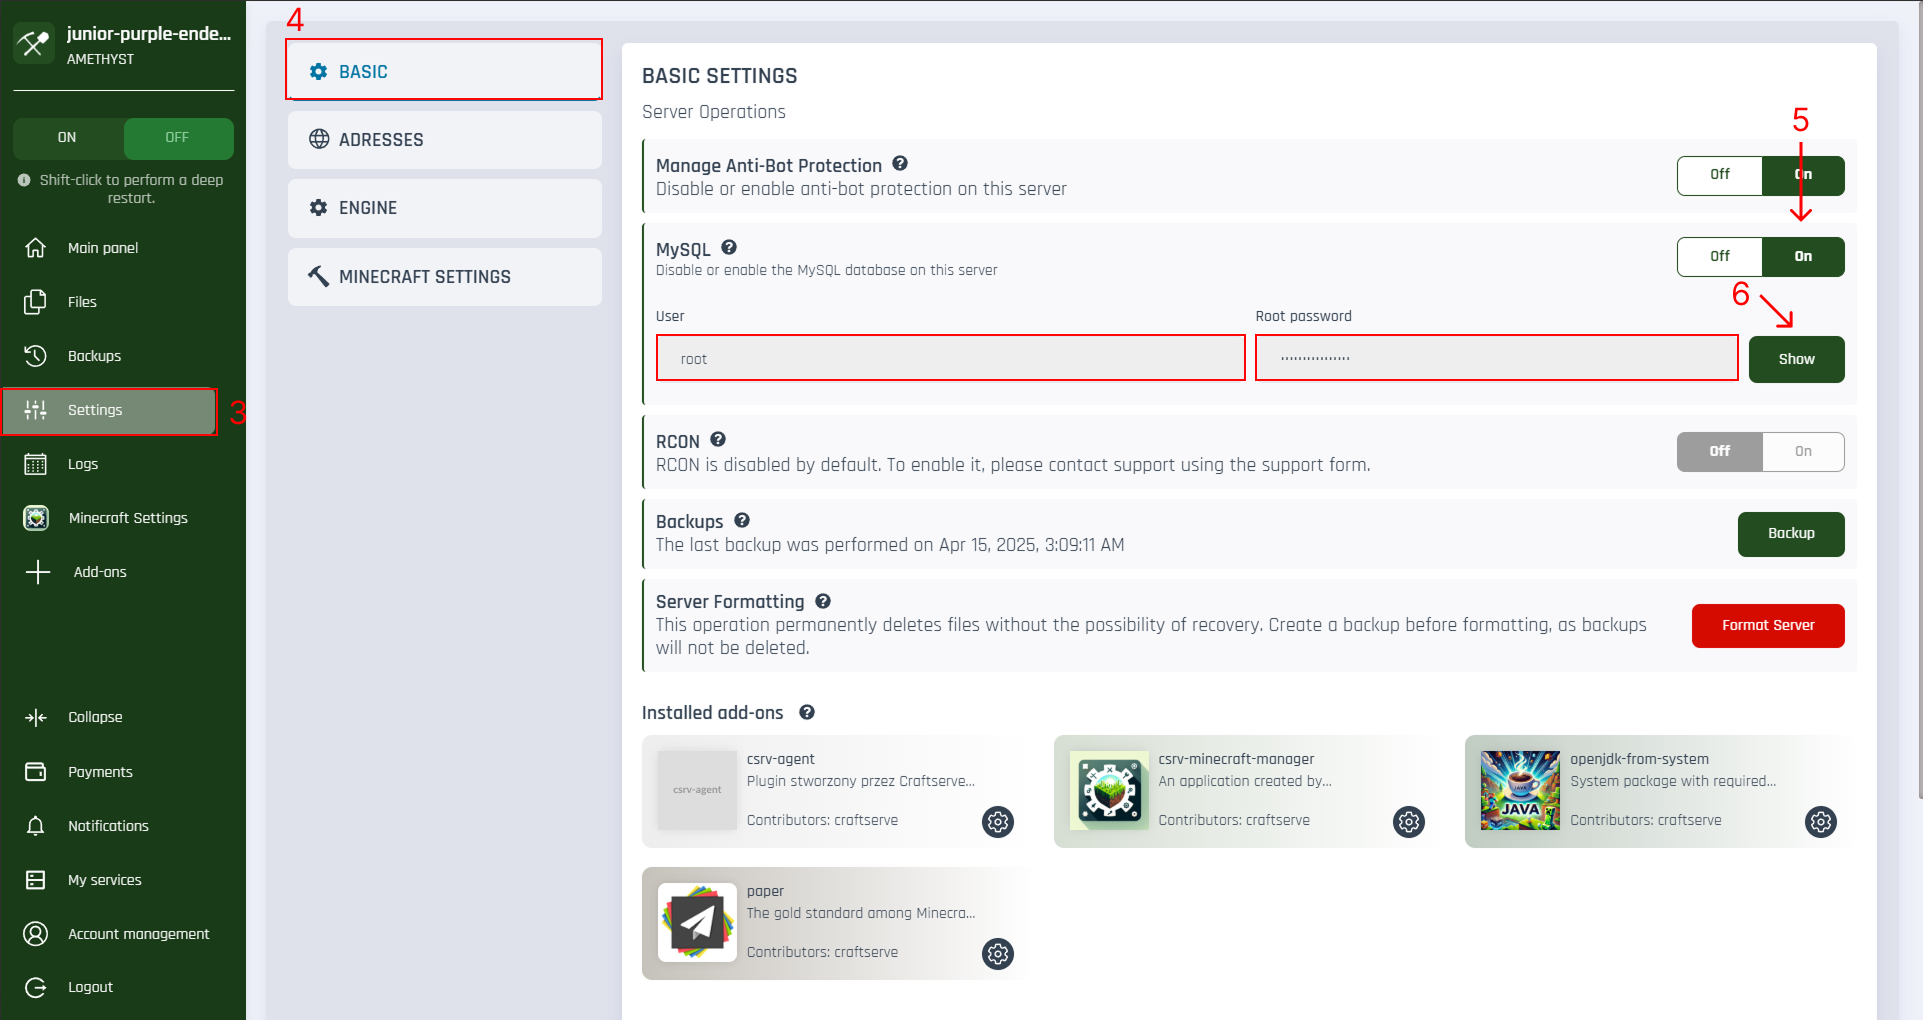
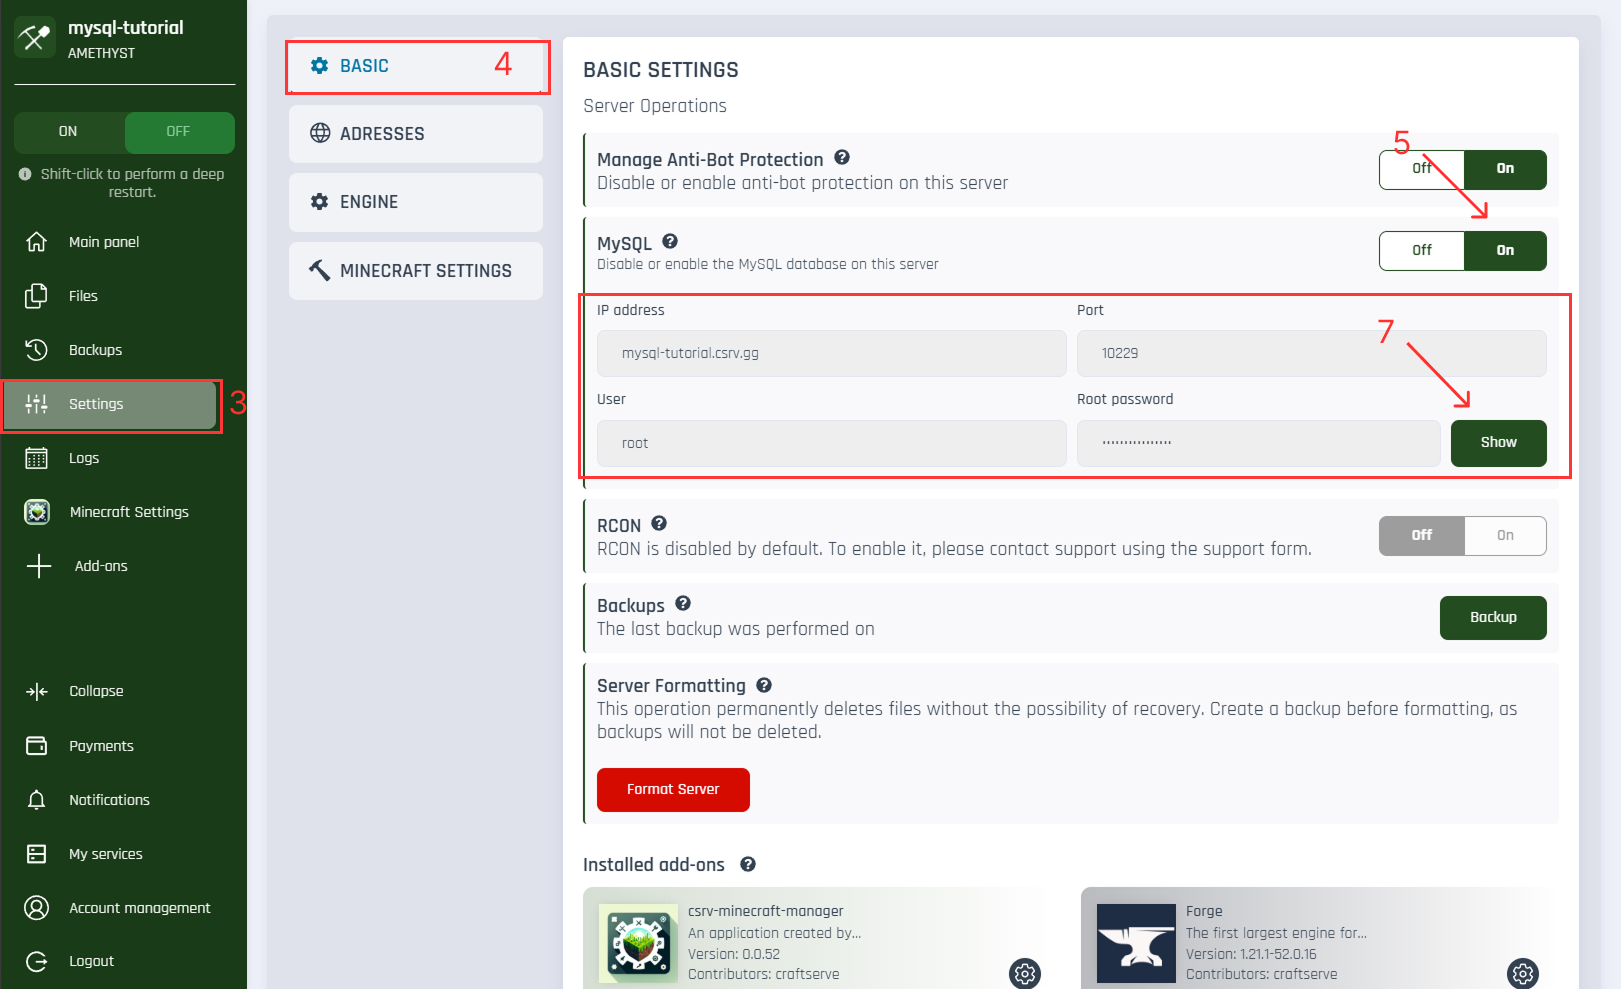
Fix/update mysql (#48)
* update mysql docs

* update tooltip data

---------

diff --git a/docs/pl-PL/mysql.md b/docs/pl-PL/mysql.md
@@ -1,47 +1,97 @@
-## 🧠 Czym jest MySQL?
+# 🧠 Czym jest **MySQL**?
 
 <p id="tooltip-data">
-MySQL to popularny system zarządzania relacyjnymi bazami danych. W kontekście serwera Minecraft, MySQL może być wykorzystywany do:
+MySQL to popularny system zarządzania relacyjnymi bazami danych. W kontekście serwera Minecraft, może być wykorzystywany m.in. do:
 
--   Przechowywania danych graczy (np. wtyczki typu auth, statystyki, systemy ekonomii),
--   Przechowywania konfiguracji pluginów,
--   Synchronizacji danych pomiędzy wieloma serwerami (np. BungeeCord, Velocity).
+-   przechowywania danych graczy (np. dane logowania, statystyki, systemy ekonomii),
+-   przechowywania konfiguracji pluginów,
+-   synchronizacji danych między wieloma serwerami (np. przy użyciu BungeeCord lub Velocity).
 </p>
 
-## 🔐 Dostępność MySQL
+# 🔐 Dostępność MySQL
 
 <div style="background-color:#ffe0e0; padding:10px; border-left:4px solid #ff4c4c; color: #000">
-<strong>Uwaga:</strong> Dostęp do MySQL mają wyłącznie serwery w planie <strong>Amethyst</strong>.
+<strong>Uwaga:</strong> Funkcja MySQL dostępna jest wyłącznie w planie <strong>Amethyst</strong>.
 </div>
 
-## ✅ Jak włączyć MySQL na serwerze?
+---
 
-Aby aktywować MySQL dla swojego serwera, postępuj zgodnie z poniższymi krokami:
+# ✅ Jak włączyć MySQL na serwerze?
 
-1. Przejdź do <a target="_blank" href="https://craftserve.com/account"><strong>Panelu</strong></a> zarządzania serwerami.
-2. Wybierz swój docelowy serwer.
-3. Z panelu bocznego wybierz opcję <strong>Ustawienia</strong>.
-4. Otwórz zakładkę <strong>Podstawowe</strong>.
-5. Znajdź opcję <strong>MySQL</strong> ustaw ją na <strong>Włączone</strong>.
-6. Po włączeniu, pojawi się hasło – kliknij przycisk <strong>"Pokaż"</strong>, aby je zobaczyć.
-   </br>
-   </br>
+Aby aktywować MySQL dla swojego serwera:
 
-![Mysql tutorial](./img/mysql/mysql_1.png)
+1. Przejdź do [panelu](https://craftserve.com/account).
+2. Wybierz odpowiedni serwer.
+3. W menu bocznym kliknij **Ustawienia**.
+4. Przejdź do zakładki **Podstawowe**.
+5. W sekcji **MySQL** ustaw opcję na **Włączone**.
+6. Zaakceptuj ostrzeżenie o konieczności uruchomienia lub zatrzymania serwera.
 
-## ⚙ Dane dostępowe do MySQL
+    > 🔴 **Uwaga:** Połączenie z MySQL będzie możliwe po zakończeniu procesu od uruchamiania/zatrzymywania serwera.
 
-| Parametr   | Wartość                                 |
-| ---------- | --------------------------------------- |
-| Host       | `127.0.0.1` (nie `localhost`)           |
-| Port       | `3306`                                  |
-| Użytkownik | `root`                                  |
-| Hasło      | Widoczne po kliknięciu "Pokaż" w panelu |
+7. Po włączeniu MySQL zobaczysz dane dostępowe: adres, port, użytkownik, hasło - kliknij przycisk **Pokaż**.
 
-## 🛠 Przykład połączenia z pluginem
+---
+
+![Włączanie MySQL](./img/mysql/mysql_1.png)
+
+---
+
+# 🔗 Jak połączyć się z MySQL?
+
+Do połączenia się z bazą danych MySQL potrzebny będzie klient. Polecamy darmowy program **HeidiSQL**:
+👉 [Pobierz HeidiSQL](https://www.heidisql.com/download.php)
+
+### Konfiguracja połączenia:
+
+1. Otwórz HeidiSQL i kliknij **Nowy** w lewym dolnym rogu.
+2. Wypełnij pola zgodnie z poniższą tabelą:
+
+| Pole               | Wartość z panelu Craftserve          |
+| ------------------ | ------------------------------------ |
+| **Typ połączenia** | `MariaDB or MySQL (TCP/IP)`          |
+| **Library**        | (pozostaw domyślne)                  |
+| **Nazwa hosta/IP** | Adres z pola `Adres połączenia`      |
+| **Użytkownik**     | `root`                               |
+| **Hasło**          | Hasło widoczne po kliknięciu „Pokaż” |
+| **Port**           | Port wyświetlany po aktywacji MySQL  |
+
+3. Kliknij **Otwórz**, aby nawiązać połączenie.
+
+![Połączenie z MySQL](./img/mysql/mysql_2.png)
+
+---
+
+# ❗ Problemy z połączeniem – co robić?
+
+### 🔄 Nie mogę się połączyć z bazą danych
+
+1. Przejdź do [panelu zarządzania serwerami](https://craftserve.com/account).
+2. Wybierz swój serwer.
+3. Przejdź do **Ustawień** → **Podstawowe**.
+4. Sprawdź, czy **MySQL** jest włączony.
+5. Jeśli problem nadal występuje:
+
+    - Upewnij się, że dane do połączenia są poprawne.
+    - Zrestartuj serwer, **przytrzymując klawisz SHIFT** podczas klikania przycisku **Uruchom** – wykona się tzw. _głęboki restart_.
+    - Po restarcie ponów próbę połączenia.
+
+---
+
+# ⚙ Dane do konfiguracji pluginów
+
+Użyj poniższych danych w plikach konfiguracyjnych pluginów:
+
+| Parametr       | Wartość                         |
+| -------------- | ------------------------------- |
+| **Host**       | `127.0.0.1` _(nie `localhost`)_ |
+| **Port**       | `3306`                          |
+| **Użytkownik** | `root`                          |
+| **Hasło**      | Dostępne w panelu               |
+
+### 📄 Przykład konfiguracji pluginu:
 
 ```yaml
-# Przykład konfiguracji pluginu
 mysql:
     host: 127.0.0.1
     port: 3306

diff --git a/docs/en-US/mysql.md b/docs/en-US/mysql.md
@@ -1,47 +1,99 @@
-## 🧠 What is MySQL?
+# 🧠 What is **MySQL**?
 
 <p id="tooltip-data">
-MySQL is a popular relational database management system. In the context of a Minecraft server, MySQL can be used for:
+MySQL is a popular relational database management system. In the context of a Minecraft server, it can be used for:
 
--   Storing player data (e.g., auth plugins, statistics, economy systems),
--   Storing plugin configurations,
--   Synchronizing data between multiple servers (e.g., BungeeCord, Velocity).
+-   Storing player data (e.g., login info, stats, economy systems),
+-   Storing plugin configurations
+-   Synchronizing data across multiple servers (e.g., using BungeeCord or Velocity).
 </p>
 
-## 🔐 MySQL Availability
+---
+
+# 🔐 MySQL Availability
 
 <div style="background-color:#ffe0e0; padding:10px; border-left:4px solid #ff4c4c; color: #000">
-<strong>Note:</strong> MySQL access is available only for servers on the <strong>Amethyst</strong> plan.
+<strong>Note:</strong> MySQL is only available on the <strong>Amethyst</strong> plan.
 </div>
 
-## ✅ How to enable MySQL on your server?
+---
 
-To activate MySQL for your server, follow these steps:
+# ✅ How to Enable MySQL on Your Server
 
-1. Go to the <a target="_blank" href="https://craftserve.com/account"><strong>panel</strong></a>.
-2. Select your target server.
-3. From the sidebar, choose the <strong>Settings</strong> option.
-4. Open the <strong>Basic</strong> tab.
-5. Find the <strong>MySQL</strong> option and set it to <strong>Enabled</strong>.
-6. After enabling it, a password will appear – click the <strong>"Show"</strong> button to view it.
-   </br>
-   </br>
+To enable MySQL for your server:
 
-![Mysql tutorial](./img/mysql/mysql_1.png)
+1. Go to the [dashboard](https://craftserve.com/account).
+2. Select your server.
+3. In the sidebar, click **Settings**.
+4. Go to the **Basic** tab.
+5. In the **MySQL** section, set the option to **Enabled**.
+6. Confirm the warning about starting or stopping the server.
 
-## ⚙ MySQL Access Details
+    > 🔴 **Note:** MySQL access will be available once the server has started or stopped.
 
-| Parameter | Value                                      |
-| --------- | ------------------------------------------ |
-| Host      | `127.0.0.1` (not `localhost`)              |
-| Port      | `3306`                                     |
-| User      | `root`                                     |
-| Password  | Visible after clicking "Show" in the panel |
+7. After enabling MySQL, you will see your connection details: host, port, user, password – click the **Show** button to reveal.
 
-## 🛠 Plugin Connection Example
+---
+
+![Enabling MySQL](./img/mysql/mysql_1.png)
+
+---
+
+# 🔗 How to Connect to MySQL
+
+To connect to the MySQL database, you’ll need a client. We recommend the free program **HeidiSQL**:  
+👉 [Download HeidiSQL](https://www.heidisql.com/download.php)
+
+### Connection Setup:
+
+1. Open HeidiSQL and click **New** in the bottom-left corner.
+2. Fill in the fields as follows:
+
+| Field               | Value from Craftserve Panel          |
+| ------------------- | ------------------------------------ |
+| **Connection Type** | `MariaDB or MySQL (TCP/IP)`          |
+| **Library**         | (leave default)                      |
+| **Hostname / IP**   | Value from the `Connection Address`  |
+| **User**            | `root`                               |
+| **Password**        | Password shown after clicking “Show” |
+| **Port**            | Port shown after MySQL is enabled    |
+
+3. Click **Open** to connect.
+
+![MySQL Connection](./img/mysql/mysql_2.png)
+
+---
+
+# ❗ Troubleshooting Connection Issues
+
+### 🔄 Can't connect to the database
+
+1. Go to the [dashboard](https://craftserve.com/account).
+2. Select your server.
+3. Navigate to **Settings** → **Basic**.
+4. Check if **MySQL** is enabled.
+5. If the issue persists:
+
+    - Make sure all connection credentials are correct.
+    - Restart the server by **holding SHIFT** while clicking the **Start** button – this triggers a _deep restart_.
+    - Try connecting again after the restart.
+
+---
+
+# ⚙ Plugin Configuration Details
+
+Use the following credentials in your plugin configuration files:
+
+| Parameter    | Value                           |
+| ------------ | ------------------------------- |
+| **Host**     | `127.0.0.1` _(not `localhost`)_ |
+| **Port**     | `3306`                          |
+| **User**     | `root`                          |
+| **Password** | Available in the panel          |
+
+### 📄 Plugin Configuration Example:
 
 ```yaml
-# Example plugin configuration
 mysql:
     host: 127.0.0.1
     port: 3306
